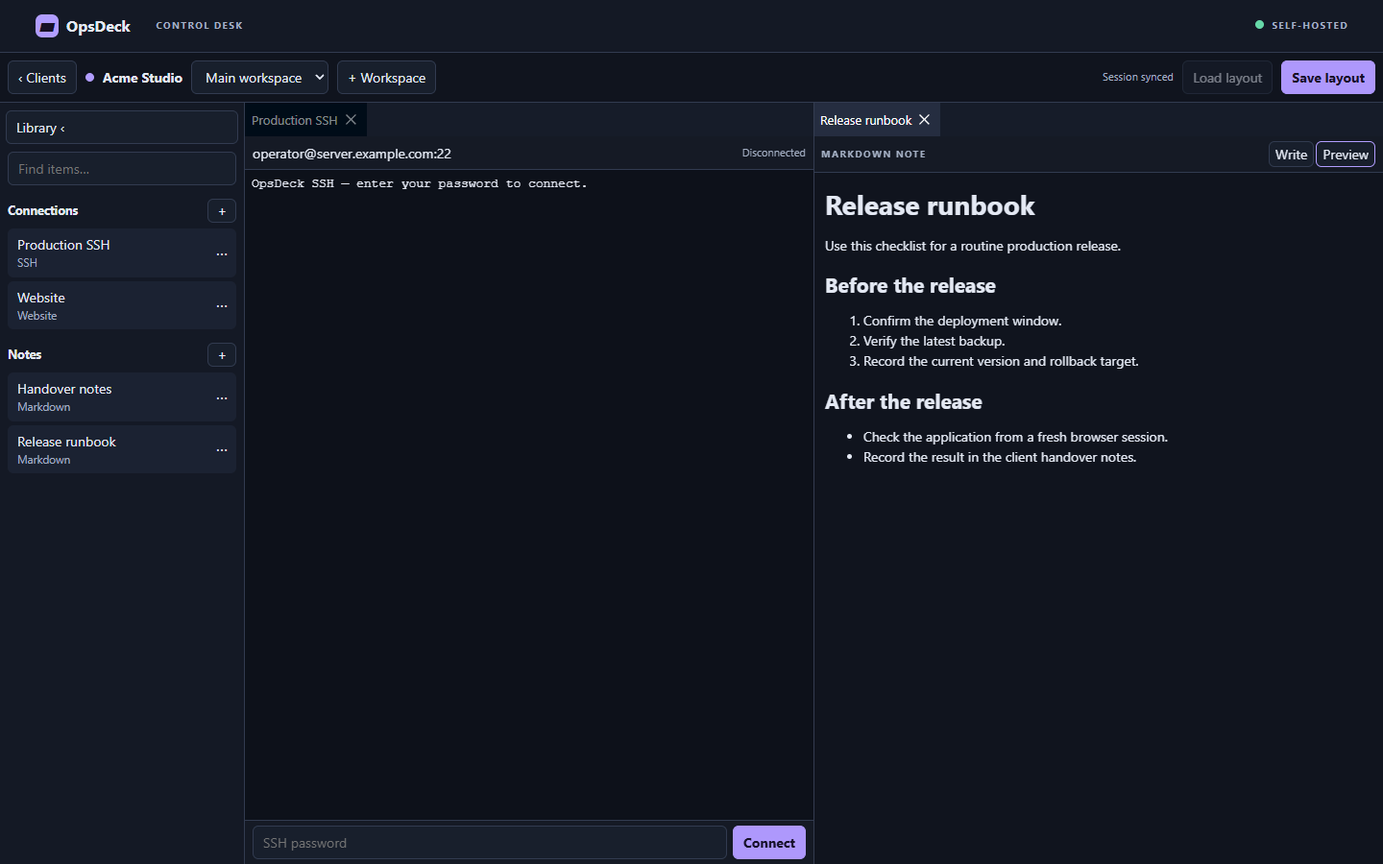
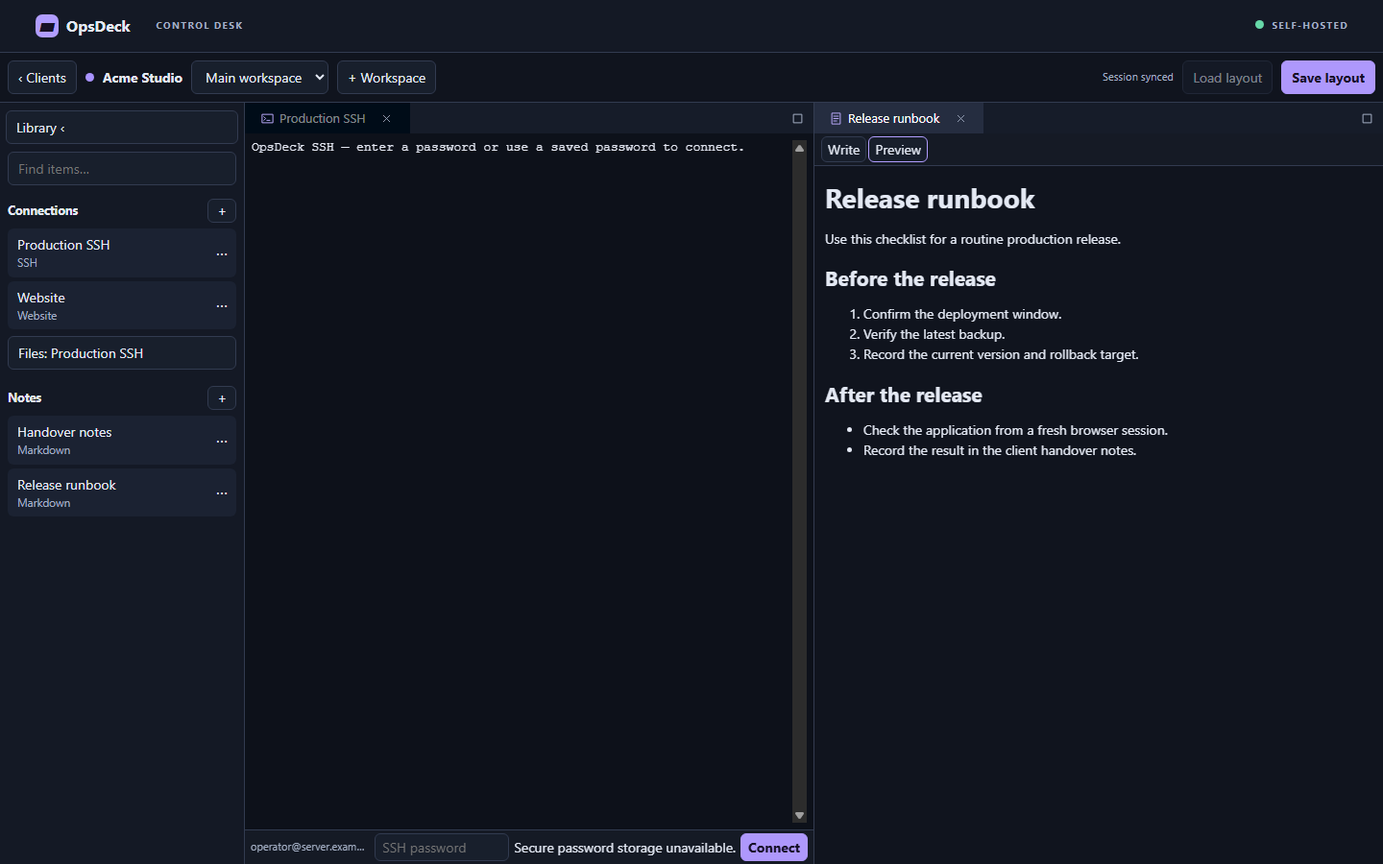
Rewrite README and refresh screenshots

diff --git a/README.md b/README.md
@@ -1,51 +1,45 @@
 # OpsDeck
 
-OpsDeck is a self-hosted, single-operator workspace for client operations. Keep SSH terminals, Markdown runbooks and web tools together in dockable windows.
+**Your client operations, in one workspace.** OpsDeck brings websites, SSH terminals, remote files and runbooks together in dockable panes, so you can move from investigation to action without losing your place.
 
-## Screenshots
+Organize work by client, build layouts around the tools you use, and return to the same context later. OpsDeck is useful on its own: its terminals, editor, notes and website panes work without AI or a model download.
 
-| Client dashboard | Docked workspace |
-|---|---|
-| ![OpsDeck client dashboard with three sample clients](docs/screenshots/clients.png) | ![OpsDeck workspace with a disconnected SSH terminal and a Markdown runbook](docs/screenshots/workspace.png) |
+When you want a hand, the optional **local AI assistant** can inspect the current workspace, work with notes and remote files, read terminal output and send commands. With your permission it can also interact with visible website panes. Review its actions: it can make real changes and can make mistakes.
 
-Screenshots use demo data.
+OpsDeck is a self-hosted, single-operator application, not a multi-user access-control system.
 
-## Portable desktop app
+## See it in action
 
-Use the desktop app for sites that reject iframe embedding. Download the ZIP for **macOS Apple silicon** or **Windows x64**, then extract it to a folder you can write to. On macOS, launch `OpsDeck.app`; on Windows, launch `OpsDeck.exe` and keep it beside the extracted support files. No system installer or Node.js installation is needed.
+| Client dashboard | Client workspace |
+| --- | --- |
+| ![OpsDeck client dashboard](docs/screenshots/clients.png) | ![OpsDeck docked client workspace](docs/screenshots/workspace.png) |
 
-These initial builds are not vendor-signed or notarized. macOS Gatekeeper or Windows SmartScreen may warn or block them, particularly on managed computers. Only approve the app if you trust the download and your device policy allows it.
+Screenshots use demonstration data.
 
-Open a website connection from the library to load it as a top-level page in a docked Chromium pane. Sign-in popups and cookies work within a persistent browser profile shared by that client's panes. Profiles are separate from Chrome and from other OpsDeck clients. Some providers still require a system browser or a system-specific passkey flow; use **Open separately** if their login rejects the desktop pane. OpsDeck does not bypass certificate errors or change websites' login policies.
+## What you can do
 
-Recently used tabs resume where you left off when you return to a workspace while OpsDeck is running. OpsDeck clears a client's cookies, website storage, and cache after 30 days without open website panes, on the next launch or during an hourly check. Sites can still expire their own logins sooner. Tab-only state can be lost when OpsDeck quits or needs to free an idle tab.
+- **Organize clients:** keep connections and notes together, search the library, and use named workspaces and reusable layouts.
+- **Bring tools together:** open websites, SSH terminals, notes and remote file editors side by side; drag tabs to dock, split and reorder them.
+- **Work with remote files:** browse SFTP, FTPS and FTP, create files and directories, upload or download files, and edit text in Monaco, the editor engine used by VS Code.
+- **Keep a runbook nearby:** write Markdown notes with preview and autosave.
+- **Use an optional local assistant:** ask it to open panes, work on notes and files, and help with connected terminals. Conversations can be reopened and continued.
 
-You can also use an external desktop agent such as ChatGPT or Claude with desktop controls, if your version supports them. OpsDeck does not load Chrome extensions or provide those external agents with special API access. See the [OpsDeck workspace skill](skills/opsdeck-workspace/SKILL.md) for UI guidance and boundaries.
+## Get started
 
-### Local Ollama agent
+### Portable desktop app
 
-In the desktop app, open a client workspace and choose **Local agent**. Pick a model and select **Set up local model**. Read the warning and select **I understand, start chatting** once the model is ready; use the settings button to change the model or website access. Enter sends a message and Shift+Enter adds a line. OpsDeck downloads a pinned official Ollama runtime, verifies its SHA-256 checksum, and downloads the selected local model. The recommendation uses system RAM as a rough guide, not a guarantee of speed; GPU availability and free memory also matter. The runtime needs about 230 MB on Apple silicon or 1.6 GB on Windows x64, plus extraction space and 2.5–19 GB for a model. The optional Qwen3 30B-A3B model is about 19 GB on disk; context and other apps need additional memory, so a 24 GB Mac may swap, slow down, or fail to load it. The 14B model leaves more headroom and remains the recommendation for 24 GB. Windows GPU support depends on the hardware and drivers; CPU inference may be slow. The runtime and models live in the per-user desktop workspace directory; no administrator installation is required, although device security policies may block execution. Downloads require internet access.
+Download a ZIP from [GitHub Releases](https://github.com/Davidalanfisk/OpsDeck/releases) for **Windows x64** or **macOS Apple silicon**. Extract it to a writable folder and launch `OpsDeck.exe` on Windows or `OpsDeck.app` on macOS. Keep the Windows executable with its extracted support files. No system installer or Node.js installation is required.
 
-The agent starts its own loopback-only Ollama service with cloud features disabled. Prompts and tool results go to that local service; downloads come from Ollama's distribution services. Other local processes with access to the machine may be able to access the local service. Conversations are saved per client in OpsDeck's SQLite database, including prompts, tool arguments and results, which may contain sensitive information; they are stored in plaintext, not encrypted by OpsDeck. Anyone with access to the database or backups can read them. Existing browser-stored chats are imported when the client opens the agent; the old copy is removed only after successful import. Use **New chat** to start another and the conversation selector to reopen and continue earlier chats. If loading or saving fails, the panel reports the error and pauses new work; retry or copy unsaved conversation data before closing. Concurrent edits to the same conversation are rejected rather than overwritten. Website permission is not saved and must be enabled again after closing the panel. Restart the app and choose **Set up local model** again to start the service; an already downloaded runtime and model are reused.
+The builds are not vendor-signed or notarized. Windows SmartScreen or macOS Gatekeeper may warn or block them, especially on managed devices. Only run software you trust and that your device policy permits.
 
-The agent requests a 16,384-token context without automatic history truncation. If a conversation or tool result exceeds it, start **New chat** or use shorter input. Individual saved-conversation requests are limited to 64 MiB, and saving also requires available disk space. Context memory adds to the model's RAM requirements.
+1. Create a client and open its **Main workspace**, or create a named workspace.
+2. Use **+** beside Connections or Notes to add an item, then open it from the library.
+3. Drag tabs to arrange your workspace. **Save layout** and **Load layout** manage named layouts; the most recent session is saved separately.
+4. Optionally open **Local agent** to set up the assistant. The rest of OpsDeck does not require it.
 
-**The agent can execute commands and modify remote files or notes without asking again.** It uses only connections in the current client, and SSH and file connections must already be opened and authenticated by the user. It can list and open panes, create website connections and notes, read and update notes, read terminal output and send single-line SSH commands, and list, read, create or update remote files. Open files are read from the editor, including unsaved edits; agent updates change the draft, which you must review and save to upload. Open notes are updated in the editor and use normal note autosave. If an editor changes after the agent reads it, the edit is rejected and the agent must read it again. Remote saves also check revisions; note autosave reports conflicts and retains its local draft. Closed-file updates upload immediately using a matching revision. Agent editing of files and notes over 30,000 characters is disabled; use the normal editor instead. SSH output is recent terminal text, not proof that a command completed.
+Desktop data is stored per user, outside the extracted app: `~/Library/Application Support/OpsDeck/workspace` on macOS and `%APPDATA%\OpsDeck\workspace` on Windows. Keep a backup of this data.
 
-After a note conflict or restart with an unsaved local note draft, review the recovered draft and the stored note before choosing **Save recovered draft**. Agent edits are blocked until that review. If the app closes during an agent action, inspect the target before retrying: the action may have completed even if its result was not recorded.
-
-Website access is **off by default** and must be enabled for each agent session. When enabled, the agent can read visible page text and interact with numbered controls in visible website panes for that client. This is text/DOM access, not visual screenshot understanding, and does not cover every site or iframe. Common password and one-time-code inputs are filtered, but detection is not guaranteed and pages may display other sensitive information. Malicious content can manipulate the model into running commands, making changes or sending workspace data to a website; the system prompt cannot reliably prevent this. Local models can also make mistakes; use trusted sites, test accounts and backups, and inspect results. **Stop** halts further agent steps, but cannot undo or reliably cancel an action already sent.
-
-For source installs, the same setup can be started from a terminal:
-
-```sh
-npm run setup:ollama
-# Optional model selection: npm run setup:ollama -- qwen3:8b
-```
-
-The script exits after installation; launch the desktop app and start the chosen model from **Local agent**. The web/Docker version does not expose the desktop agent.
-
-Desktop data is stored per user, not in the extracted ZIP: `~/Library/Application Support/OpsDeck/workspace` on macOS and `%APPDATA%\OpsDeck\workspace` on Windows. To move an existing macOS native install, stop both versions, then run this **before the first desktop launch** (adjust the source path if needed):
+To copy an existing macOS native installation's database, stop both versions and run the following **before the first desktop launch**, adjusting the source path:
 
 ```sh
 mkdir -p "$HOME/Library/Application Support/OpsDeck/workspace"
@@ -53,11 +47,11 @@ sqlite3 "$HOME/Downloads/OpsDeck-main/data/opsdeck.sqlite" \
   ".backup '$HOME/Library/Application Support/OpsDeck/workspace/opsdeck.sqlite'"
 ```
 
-This copies clients, notes, connections, and saved layouts, not website sessions. To use the SSH agent, open the desktop app executable directly from the Terminal that can see your agent socket (adjust the path to the extracted app): `"$HOME/Downloads/OpsDeck.app/Contents/MacOS/OpsDeck"`.
+This copies clients, notes, connections and layouts, not website sessions.
 
-## Native install (recommended for macOS SSH agent)
+### Run from source
 
-Install [Node.js 24 LTS](https://nodejs.org/en/download) for your platform. Check `node --version` in a new terminal; it should report `v24.x`. From the extracted source or cloned repository, run:
+Install [Node.js 24 LTS](https://nodejs.org/en/download), then from the cloned or extracted source directory:
 
 ```sh
 npm ci
@@ -65,11 +59,43 @@ npm run build
 npm start
 ```
 
-Open [http://127.0.0.1:3000](http://127.0.0.1:3000). The server runs in the foreground; press `Ctrl+C` to stop it. SQLite data stays in `data/opsdeck.sqlite`, and restarting the server with `npm start` reuses it. If PowerShell blocks the npm script shim on Windows, use `npm.cmd` in place of `npm`.
+Open [http://127.0.0.1:3000](http://127.0.0.1:3000). Stop the foreground server with `Ctrl+C`; SQLite remains in `data/opsdeck.sqlite`. On Windows, use `npm.cmd` if PowerShell blocks the npm script shim.
 
-### macOS: connect using an encrypted SSH key
+For the Electron desktop app from source:
 
-The agent belongs to the **OpsDeck server process**, not the browser. In Terminal, load your existing key (replace the example path):
+```sh
+npm ci
+npm run build:desktop
+npm run start:desktop
+```
+
+The desktop app has top-level website panes and the local assistant. The browser-based app does not expose the desktop assistant, and sites that prohibit iframe embedding need **Open separately** or the desktop app.
+
+### Docker Compose
+
+Install and start [Docker Desktop](https://docs.docker.com/desktop/) on Windows or macOS, or [Docker Engine and the Compose plugin](https://docs.docker.com/engine/install/) on Linux. From the source directory:
+
+```sh
+docker compose up --build -d
+```
+
+Open [http://127.0.0.1:3000](http://127.0.0.1:3000). Check `docker compose logs opsdeck` if needed. Data is kept in the `workspace` named volume; `docker compose down` preserves it, while `docker compose down -v` deletes it.
+
+Optional `.env` settings are `OPSDECK_BIND` (default `127.0.0.1`), `OPSDECK_PORT` (default `3000`) and `OPSDECK_ORIGIN` (for an explicit public origin behind a reverse proxy).
+
+> **Keep the web server private.** OpsDeck has no login or multi-user permissions. Anyone who can reach it can read and modify client data and initiate SSH connections from the server. Keep the loopback binding, or use an authenticated HTTPS access boundary with WebSocket forwarding.
+
+## Websites and sessions
+
+Desktop website connections open in docked, top-level Chromium panes rather than iframes. Sign-in popups and cookies use a persistent profile shared by a client's panes, separate from other clients and from Chrome. Some sites or passkey flows still require the system browser; use **Open separately** if needed. OpsDeck does not bypass certificate checks or site login policies.
+
+Recent tabs resume while OpsDeck is running. Cookies, website storage and cache for a client are cleared after 30 days without open website panes, on the next launch or an hourly check; sites can expire sessions sooner. Tab-only state can be lost when the app quits or frees an idle tab. OpsDeck does not provide Chrome's password manager or load arbitrary Chrome extensions; use your regular browser and its password manager when needed.
+
+## SSH and remote files
+
+Add an SSH connection with the host, port, username and a **trusted SHA256 server host-key fingerprint**, obtained independently from the server administrator or console. Choose password or SSH agent authentication. The OpsDeck server or container must be able to reach the remote host. Restarting OpsDeck restores the terminal pane, not the live shell or scrollback; reconnect, or use a remote multiplexer for a persistent shell.
+
+For agent authentication, load your existing key in the terminal that starts OpsDeck:
 
 ```sh
 echo "$SSH_AUTH_SOCK"
@@ -77,117 +103,57 @@ ssh-add ~/.ssh/id_ed25519
 ssh-add -l -E sha256
 ```
 
-`ssh-add` prompts for the key's passphrase in Terminal. If `SSH_AUTH_SOCK` is empty or the agent is unavailable, run `eval "$(ssh-agent -s)"` in that terminal and repeat the commands above. Keep the agent running while OpsDeck uses it. Start or restart OpsDeck from the same terminal after the agent is available:
+Replace the example key path with your private key. `ssh-add` prompts for its passphrase; OpsDeck does not store it. Select the corresponding **agent identity fingerprint** in the connection form: it is different from the server host-key fingerprint. If needed, start an agent with `eval "$(ssh-agent -s)"`, load the key and start OpsDeck from that same terminal. A packaged macOS app can be launched from that terminal via its `OpsDeck.app/Contents/MacOS/OpsDeck` executable.
 
-```sh
-cd /path/to/OpsDeck
-npm start
-```
+The default Docker configuration does not forward the host SSH agent. Forwarding a socket and setting `SSH_AUTH_SOCK` inside the container requires explicit configuration and grants the container access to agent signing operations. Password connections do not need an agent.
 
-In OpsDeck, add an SSH connection with the hosting provider's host, SSH port and username. Enter the **trusted server host-key fingerprint** obtained independently from the provider, choose **SSH agent**, and select the identity matching the public-key fingerprint shown by `ssh-add -l -E sha256`. The identity fingerprint is not the server host-key fingerprint. Install the corresponding public key with the provider if it is not already authorized. Open the connection and click **Connect**; the in-app terminal does not ask for a password or key passphrase. If the identity is missing, load it with `ssh-add` and refresh the identity list. If the host key differs, verify it with the provider before changing the saved fingerprint.
+Add an **SFTP**, **FTPS** or **FTP** connection, or open **Files** for an existing SSH connection. SFTP uses SSH authentication and host-key verification. FTPS requires a valid trusted certificate and supports explicit or implicit TLS. **Plain FTP transmits passwords and files unencrypted** and requires acknowledgement on every connection; prefer SFTP or FTPS.
 
-OpsDeck stores only the authentication choice and public-key fingerprint, not the private key, passphrase or password. Access to an agent socket can permit signing as the loaded identities; only expose it to trusted processes. A key requiring agent confirmation may still prompt outside OpsDeck.
+Browse folders, create a **New file** or **New directory**, upload a new file, or download files. Open UTF-8 text files in the docked Monaco editor; syntax highlighting is available for common languages. **Save to server** or `Ctrl+S` / `Cmd+S` uploads the active draft. Remote saves check the original revision and refuse detected conflicts, retaining the draft. This is optimistic conflict detection, not a lock: concurrent creates can race with the final rename. Keep backups of production files.
 
-## Install with Docker Compose
+Text editing is limited to 1 MiB and transfers to 10 MiB per file; symbolic links are not opened. UTF-8 BOMs and normal LF/CRLF endings are preserved, though Monaco may normalize mixed endings. The server must allow temporary-file creation and rename. File sessions expire after 15 idle minutes; reconnect retains open drafts and revisions. Drafts are not persisted across quitting, and discarding dirty tabs, layouts or workspaces prompts for confirmation.
 
-Install Docker for your platform and start its engine:
+### Saved connection passwords
 
-| Platform | Prerequisites |
-|---|---|
-| Windows | Install [Docker Desktop for Windows](https://docs.docker.com/desktop/setup/install/windows-install/) with the WSL 2 backend. Start Docker Desktop and run the commands below in PowerShell. |
-| macOS | Install [Docker Desktop for Mac](https://docs.docker.com/desktop/setup/install/mac-install/), choosing the Apple silicon or Intel download for your Mac. Start Docker Desktop and run the commands below in Terminal. |
-| Linux | Install [Docker Engine](https://docs.docker.com/engine/install/) and the [Docker Compose plugin](https://docs.docker.com/compose/install/linux/) for your distribution. Run the commands below as a user with access to the Docker daemon. |
+Passwords are **not saved by default**. Desktop users can opt in to secure storage after successful authentication. Encryption uses Windows DPAPI, macOS Keychain or a supported Linux secret service; Linux's basic-text fallback is rejected. Windows protects against other users but not necessarily other applications running as the same user. The web and Docker versions cannot save passwords; enter them each time.
 
-Download and extract the source archive from [GitHub Releases](https://github.com/Davidalanfisk/OpsDeck/releases), or clone the `v0.6.1` release with Git:
+An SSH connection shares its saved password between the terminal and Files browser; either form can forget it. Changing connection identity or authentication settings prevents reuse of the old saved password. SSH-agent connections do not use saved passwords. Saved credentials do not make plain FTP encrypted.
 
-```sh
-git clone --branch v0.6.1 https://github.com/Davidalanfisk/OpsDeck.git OpsDeck
-cd OpsDeck
-```
+## Local AI assistant
 
-From the folder containing `docker-compose.yml`, run:
+The desktop assistant uses a locally running Ollama service with cloud features disabled. Open **Local agent**, select a model, choose **Set up local model**, then read and acknowledge the warning. OpsDeck downloads a pinned Ollama runtime and verifies its SHA-256 checksum, then downloads the model. The runtime needs roughly 230 MB on Apple silicon or 1.6 GB on Windows x64, plus extraction space and 2.5–19 GB for the selected model. The 30B model can exceed the available memory on a 24 GB machine; GPU availability and free memory affect performance. Downloads require internet access, and local processes may be able to access the loopback service.
 
-```sh
-docker compose version
-docker compose up --build -d
-```
+The assistant can list and open panes, create website connections and notes, read and edit notes and remote files, and read terminal output or send single-line commands. Connections must already be opened and authenticated by you. Tool actions, results and errors are shown in the conversation. Enter sends; Shift+Enter adds a line.
 
-Open [http://127.0.0.1:3000](http://127.0.0.1:3000). If the app does not open, check `docker compose logs opsdeck`. Compose stores SQLite in the `workspace` named volume. `docker compose down` stops the app and keeps the data; `docker compose down -v` deletes it.
+Open files are read with their unsaved editor content; assistant edits appear in the draft and require **Save to server** to upload. Open notes update in the editor and use normal autosave. Changes made after the assistant reads a draft are detected and rejected; read it again before retrying. Closed-file edits upload immediately using a matching revision. Agent editing is limited to files and notes of 30,000 characters; terminal output does not prove a command finished. Review recovered note drafts before choosing **Save recovered draft**.
 
-To override the published port or other settings, create a `.env` file next to `docker-compose.yml` (one `KEY=value` entry per line), then rerun `docker compose up -d`.
+**The assistant can execute commands and modify files or notes without further approval.** It can be misled by untrusted content, and **Stop** cannot undo an action already sent. Use trusted systems, backups and careful review. If the app closes during an action, inspect the target before retrying: the action may already have completed.
 
-| Compose setting | Default | Purpose |
-|---|---|---|
-| `OPSDECK_BIND` | `127.0.0.1` | Host address to publish on |
-| `OPSDECK_PORT` | `3000` | Published port |
-| `OPSDECK_ORIGIN` | Same as the request host | Explicit public origin, e.g. `https://opsdeck.example.com`, if a reverse proxy rewrites the host |
+Website access is **off by default** and must be enabled for each agent session. When enabled, the assistant can read visible page text and interact with numbered controls; this is not visual screenshot understanding and does not cover every site or iframe. Common password and one-time-code fields are filtered, but detection is not guaranteed. Logged-in content may be visible to the model.
 
-**Keep this MVP private.** OpsDeck has no login or multi-user permissions. Anyone who can reach it can read and modify client data and initiate SSH connections from the server. Keep the loopback binding, or put it behind an authenticated HTTPS reverse proxy or other trusted access boundary with WebSocket forwarding. Only configure SSH endpoints you administer or are authorized to access, and limit container network access to the hosts you need.
+Conversations are saved per client in SQLite, including prompts, tool arguments and results. **They are not encrypted by OpsDeck** and can contain sensitive data. Use **New chat** and the conversation selector to reopen or continue them. Failed saves and concurrent edits are reported rather than silently overwritten. Conversation requests are limited to 64 MiB, and the model has a 16,384-token context without automatic history truncation; use a new chat or shorter input when needed.
 
-The default Compose setup does not expose a host SSH agent to the container; password connections continue to work. A host socket path is not automatically usable inside Docker, especially with Docker Desktop on macOS. Agent access requires an explicitly forwarded socket and `SSH_AUTH_SOCK` inside the container with suitable permissions; forwarding grants the container access to agent signing operations. Use the native install above for the supported macOS workflow.
+For source installs, `npm run setup:ollama` can prepare the runtime and default model from a terminal; `npm run setup:ollama -- qwen3:8b` selects a model. Start the model from the desktop assistant afterward. The web/Docker app does not expose the local assistant. Image generation is not currently built in.
 
-## Use the workspace
+## Updates
 
-1. Create a client and open its **Main workspace**, or create a named workspace.
-2. Use **+** beside Connections or Notes to add items. Click a library item to open it as a window. The library search matches note titles and content.
-3. Drag tabs to split, dock or reorder them. Drag split dividers to resize. **Save layout** stores a named workspace's reusable layout; **Load layout** reapplies it. The most recent session is saved separately and reopened automatically in the same browser.
-4. For SSH, enter the connection's host, port, username, and a trusted SHA256 host-key fingerprint. Obtain that fingerprint from the server administrator or console (for example, run `ssh-keygen -lf /etc/ssh/ssh_host_ed25519_key.pub` on the server for its Ed25519 host key). The **OpsDeck server/container**, not your browser, must be able to reach the SSH host. Choose Password or SSH agent. Desktop users can optionally save the password securely as described below.
+**Portable Windows x64 and macOS Apple silicon builds:** version 0.6.3 or later can check for updates. In **Updates**, choose **Download verified update**, then **Show downloaded ZIP**. Save remote drafts, extract the ZIP to a new folder, close OpsDeck and launch the new copy. Keep the old copy until the new one works; portable installs do not automatically install or roll back. Earlier portable versions require a one-time manual installation of an updater-capable version. User data is shared between copies, but OS credential access may prompt or require re-entry. Back up before updating, especially before downgrading.
 
-Restarting OpsDeck restores the terminal window, not the live SSH process or scrollback. Reconnect using the selected authentication method; use a remote multiplexer if the shell itself needs to survive a disconnect. In the web version, sites that block embedding can be opened via **Open separately** or in the portable desktop app.
+**macOS Apple silicon source installs:** launch the first updater-capable build with `npm run start:desktop`. Under **Updates**, choose **Download and build update**, then **Restart and install**. The app preserves a Node/npm runtime and builds in a separate version directory; the previous version is restored if the new one fails its startup check. Save remote drafts first: restarting disconnects sessions and interrupts agent actions. For future launches use `~/Library/Application Support/OpsDeck/source-updates/OpsDeck.command` or the original source launcher. Startup checks do not verify every feature.
 
-## Remote files and Monaco
+Both update paths verify SHA-256 checksums against the public [update feed](https://github.com/Davidalanfisk/OpsDeck-updates). Checksums detect corruption but are **not publisher signatures**; trust the feed, release assets and their maintainers. Source updates execute downloaded code and dependency scripts as your user. Docker and other source platforms do not support in-app updates.
 
-Add an **SFTP**, **FTPS**, or **FTP** connection from the workspace library. SFTP uses the same password or selected SSH agent identity and strict host-key fingerprint verification as SSH. Existing SSH connections also have a **Files: name** button, so the terminal and SFTP browser can be used side by side.
+## Development and releases
 
-For FTPS, choose explicit TLS (usually port 21) or implicit TLS (usually port 990) and enter the provider's exact hostname. Control and file transfer connections are encrypted and the certificate must be valid and trusted. Plain FTP requires a warning acknowledgement each time: it sends credentials and files unencrypted. Prefer SFTP or FTPS.
-
-Connect, browse directories, and click regular files to open them in tabs in the docked Monaco editor, the editor engine used by VS Code. Each tab keeps its own draft; an unsaved dot marks changes, and closing or reloading a dirty file asks for confirmation. PHP, JavaScript, TypeScript, HTML, CSS, JSON and other common text formats get highlighting. This is a text editor, not the full VS Code IDE or extension marketplace.
-
-**Save to server** or **Ctrl+S / Cmd+S** uploads the active file; typing never uploads automatically. OpsDeck checks that the remote content still matches what you opened, uploads a temporary file, then renames it into place. If another tool changes the file, Save refuses to overwrite it and keeps your draft: copy your changes before choosing **Reload**. This is optimistic conflict detection, not a remote filesystem lock. Keep a backup of important production files.
-
-**New file**, **New directory**, and **Upload new file** create entries in the current directory. Creation checks for an existing file, but is not a filesystem lock: a concurrent remote create can race with the final rename. Use the download arrow for binary files or backups. Text editing is limited to UTF-8 files up to 1 MiB, and uploads/downloads to 10 MiB per file. Symbolic links are not opened. UTF-8 BOMs and standard LF/CRLF line endings are preserved; mixed line endings may be normalized by Monaco. Servers must permit temporary-file creation and rename; SFTP preserves Unix permission bits, and FTP uses `SITE CHMOD` when the server reports them.
-
-SSH terminal and file passwords are not saved by default. In the desktop app, **Save password securely** stores a successfully authenticated password encrypted with the operating system's credential-backed encryption (Windows DPAPI, macOS Keychain, or a supported Linux secret service). Linux's basic-text fallback is never used. If secure storage is unavailable, including in the web/container version, enter the password each time. An SSH connection shares its saved password between its terminal and Files browser; either form can forget it. Changing host, account, protocol, port, authentication method, or SSH fingerprint prevents the old password being reused. SSH agent connections do not use saved passwords. Plain FTP still transmits any saved password unencrypted, and its warning must be accepted on every connection.
-
-Live file sessions stay in memory and expire after 15 idle minutes; **Reconnect** retains open drafts and revisions for saving after authentication. Drafts are not persisted across quitting OpsDeck. Closing a dirty tab, switching workspaces or loading a layout prompts before discarding edits. No automated tests contact live hosting accounts.
-
-## Develop
-
-Use Node.js 24 LTS on Windows, Linux or macOS.
+Use Node.js 24 LTS:
 
 ```sh
 npm ci
 npm run dev:api
 ```
 
-In another terminal, run `npm run dev` and open [http://localhost:5173](http://localhost:5173). `npm run build` type-checks and builds the frontend; `npm start` serves it with the API. `npm test` runs the SQLite, SSH and file transfer integration tests using local fixtures and requires `ssh-agent`, `ssh-add`, `ssh-keygen` and `openssl` on PATH. For direct Node runs, use `HOST`, `PORT` and `DATA_DIR` to override the defaults (`127.0.0.1`, `3000`, `data`).
+In another terminal run `npm run dev`, then open [http://localhost:5173](http://localhost:5173). `npm run build` type-checks and builds the frontend; `npm test` runs tests with local fixtures and requires `ssh-agent`, `ssh-add`, `ssh-keygen` and `openssl` on PATH. Direct server runs accept `HOST`, `PORT` and `DATA_DIR` (defaults: `127.0.0.1`, `3000`, `data`).
 
-For Electron, run `npm run build:desktop` and `npm run start:desktop`. Run `npm run test:desktop` after building to exercise the workspace and top-level website pane using a local fixture; it requires a working graphical display and input. `npm run test:desktop:portable` exercises the portable update dialog and real desktop bridge with fixture downloads; it does not install a ZIP. `npm run package:desktop` creates a ZIP in `release/` on macOS or Windows. The desktop backend uses loopback port `43139` and only accepts requests from its trusted workspace browser session.
+After `npm run build:desktop`, `npm run test:desktop` exercises the desktop workspace and requires a working graphical display. `npm run test:desktop:portable` exercises the updater dialog and desktop bridge with fixture downloads; it does not install a ZIP. `npm run package:desktop` creates a portable ZIP in `release/`. The desktop backend listens on loopback port `43139` and accepts requests only from its trusted workspace browser session.
 
-### Desktop updates
-
-The Windows x64 and macOS Apple silicon portable ZIP builds check the public update feed. In **Updates**, choose **Download verified update**, then **Show downloaded ZIP**. Extract it to a new folder, save remote drafts, close the running app and launch the new copy. Keep the old copy until the new one works; if startup fails, close it and launch the old copy. The app does not overwrite running binaries, automatically install or automatically roll back portable builds. Both copies use the same per-user workspace and encrypted credential data; do not remove your application data. OS credential access may prompt or require re-entry after changing builds. Back up important data before updating, especially before a downgrade.
-
-The portable ZIP is downloaded over HTTPS from the exact versioned GitHub release URL listed in the trusted feed, with redirects restricted to GitHub's release asset hosts. Its SHA-256 is checked before it is exposed for manual installation. This protects against corruption or a mismatched asset, but is **not a publisher signature**: an attacker controlling the update feed and release assets can distribute malicious code. Trust both repositories and their maintainers. Downloads are kept under the OpsDeck user-data `portable-updates` directory; delete old ZIPs there when no longer needed. No update token is required or saved. The initial updater-capable portable build must itself be installed manually; older releases cannot update using code they do not contain.
-
-### macOS source updates
-
-Apple silicon source installs can check the public `Davidalanfisk/OpsDeck-updates` feed at launch or from **Updates**. An available update is announced, not installed automatically. Choose **Download and build update**, then **Restart and install** when ready. Save remote drafts first; restart disconnects SSH/file sessions and interrupts agent actions.
-
-The first updater-capable version must be installed manually and launched with `npm run start:desktop`. It preserves a private Node/npm runtime under `~/Library/Application Support/OpsDeck/source-updates`, downloads a checksum-verified source package, and runs `npm ci` and the production build in an isolated version folder. Updating does not replace the original checkout, SQLite data, website profiles or Ollama models. The SHA-256 verifies integrity against the HTTPS feed; it is not a publisher signature. Trust the update repository and its maintainers: downloaded source and dependency install scripts execute as your user.
-
-After the first updater-enabled launch, use the generated `~/Library/Application Support/OpsDeck/source-updates/OpsDeck.command` for future launches, and use that launcher for a Dock shortcut. It uses the retained Node runtime rather than one in Downloads. After installation, the original checkout's `npm run start:desktop` also follows the installed version pointer. The updater retains the previous version and restores it if the new app fails its startup check within 60 seconds; it reports rollback on the next successful launch. Startup checks confirm the app opened, not every feature. If a managed device blocks Node or Electron, this updater does not bypass that policy.
-
-The source build-and-restart updater is for macOS Apple silicon **source installs**, not packaged builds or Docker. It requires internet access and enough disk space for another full source/dependency build. Other source platforms and Docker do not support in-app updates. A missing or inaccessible public feed is reported as an update-check error, not as "up to date."
-
-### Publishing updates
-
-Build and test both portable artifacts from the same reviewed commit and version; the **Portable desktop builds** workflow produces the macOS arm64 and Windows x64 ZIPs but does not publish a release. Create a GitHub Release tagged `v<version>` in `Davidalanfisk/OpsDeck` with the exact artifacts `OpsDeck-<version>-mac-arm64.zip` and `OpsDeck-<version>-win-x64.zip`. Place those same ZIPs in local `release/`, then run `npm run package:source-update -- <commit-or-tag>` and `npm run package:portable-feed`. The latter adds their SHA-256 hashes and fixed release URLs to the generated `release/source-updates/latest.json`, while retaining the legacy source feed fields.
-
-The source packaging command reads allowlisted tracked files from that revision, never local `data`, `.env`, `node_modules`, website profiles or models. It produces a `.json.gz` for in-app updates and a normal source ZIP for manual bootstrap. Review the source for confidential content; generic fixture data is included. Publish both source packages under `packages/` in `Davidalanfisk/OpsDeck-updates`; verify that both GitHub Release ZIPs and the source package are publicly downloadable and match the generated hashes. **Publish `latest.json` last** at the update repository root. All three assets and the feed must describe the same version; a missing portable entry is reported as an error. Publish the updater-capable release before expecting older installations to use this feature.
-
-Window implementations are registered in `src/panels.tsx`. Dockview layouts reference stored item IDs, while SQLite, the JSON API and the SSH transport remain separate from the window renderer.
-
-## Wishlist
-
-Explore Google Workspace sign-in and integrations such as Calendar, Drive and Chat notifications, subject to Google and administrator permissions.
+To publish an update, build and test both portable artifacts from the same reviewed commit. Create a `v<version>` GitHub Release with `OpsDeck-<version>-mac-arm64.zip` and `OpsDeck-<version>-win-x64.zip`, and place those ZIPs in local `release/`. Run `npm run package:source-update -- <commit-or-tag>` and `npm run package:portable-feed`. The source package includes only allowlisted tracked files, not local data, `.env`, dependencies or profiles. Publish both generated source packages under `packages/` in `Davidalanfisk/OpsDeck-updates`, verify all public downloads and checksums, and publish the generated `latest.json` **last**. Source and portable artifacts must describe the same version.
